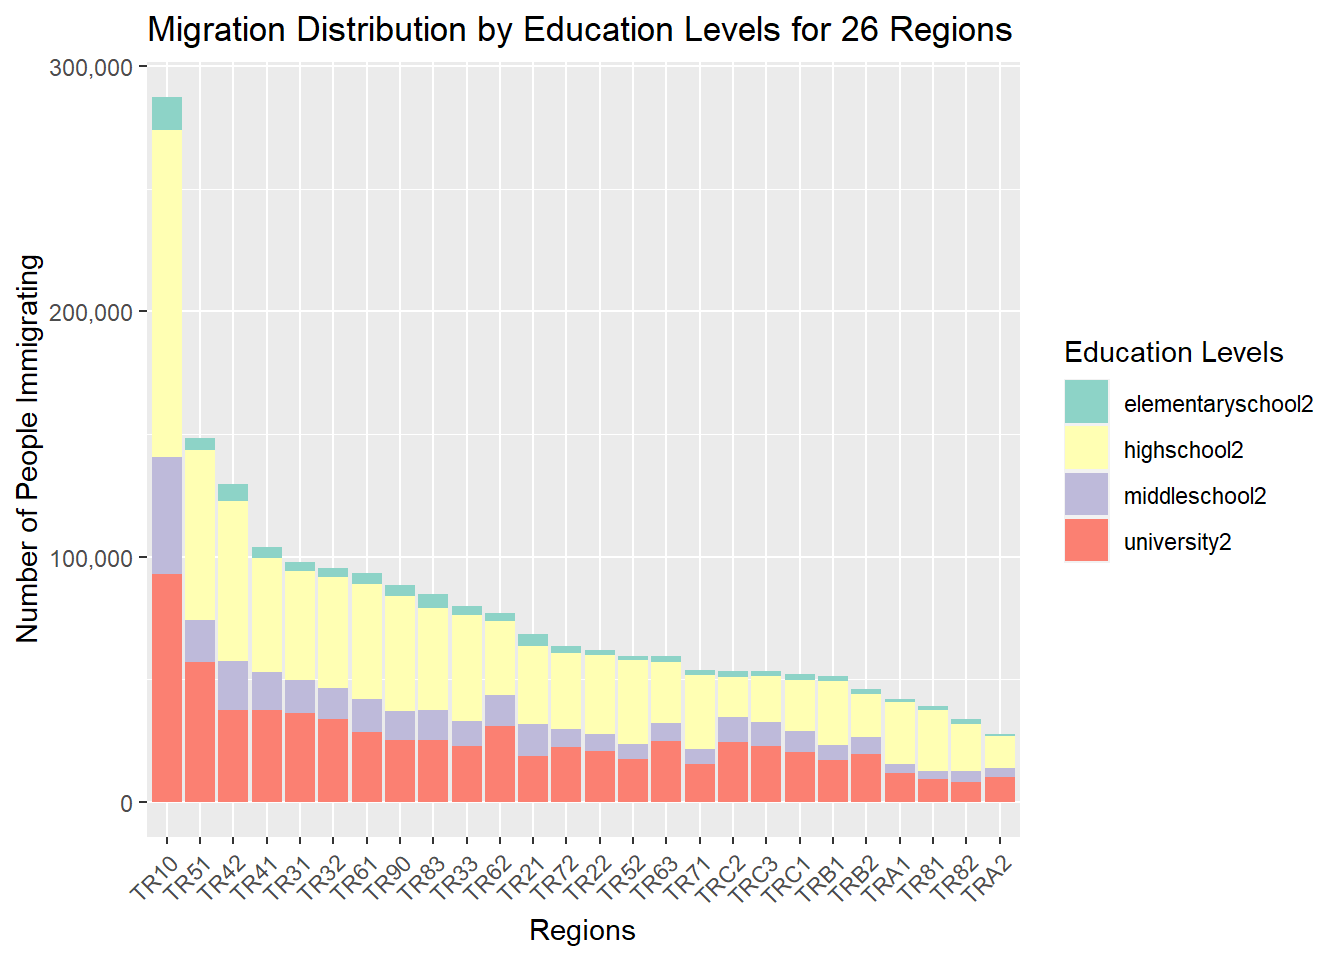
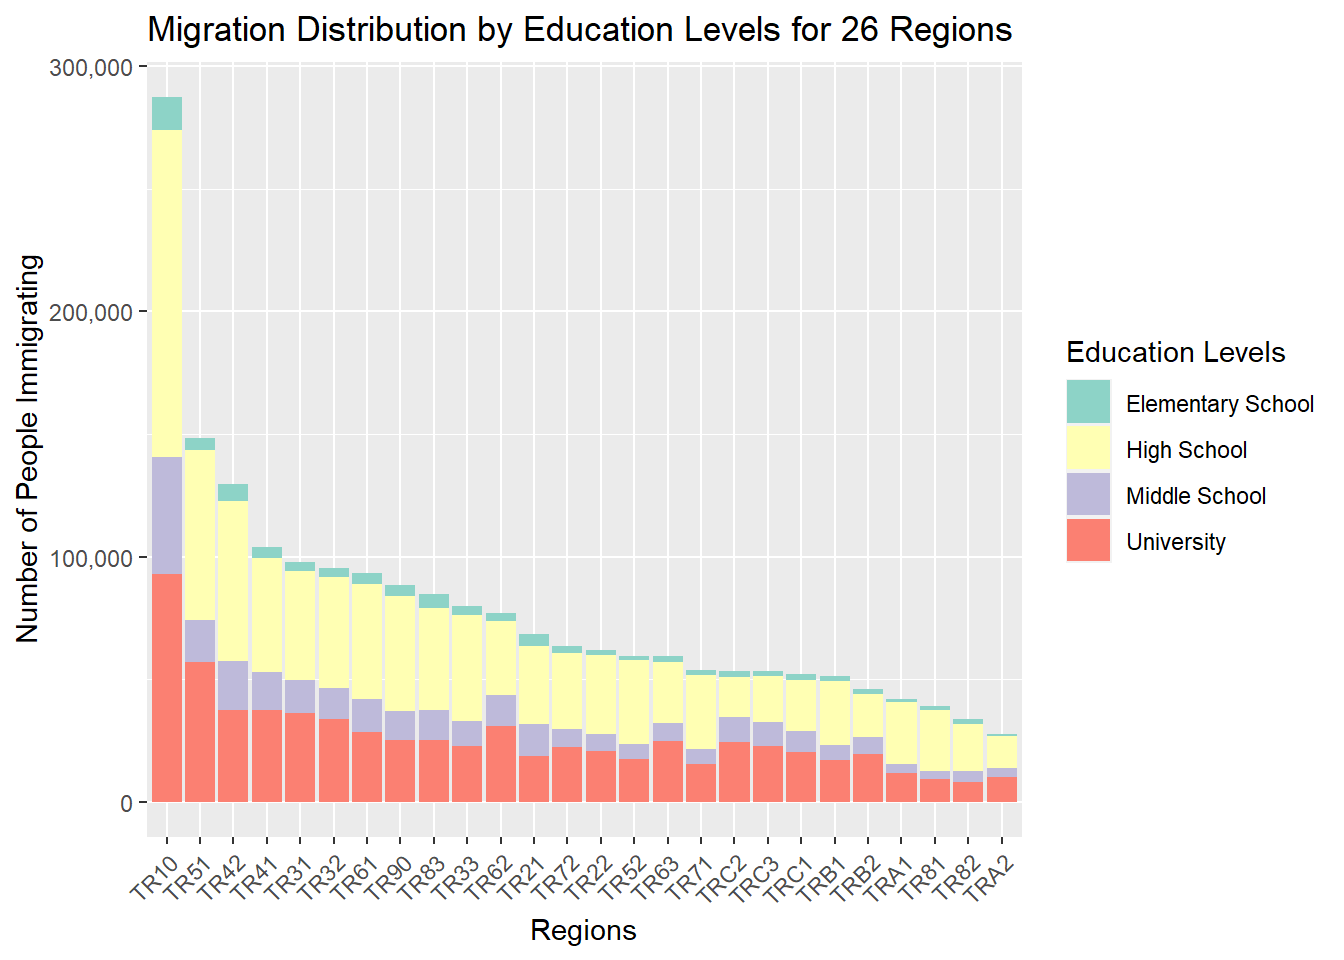
edu

diff --git a/docs/analysis.html b/docs/analysis.html
@@ -301,16 +301,26 @@ pre > code.sourceCode > span > a:first-child::before { text-decoration: underlin
 <p>From this graph, as the education level increases, the fertility rate decreases. you can see. You can also see that there are differences between geographical regions. For example, the Eastern Anatolia Region has the lowest education level and the fertility rate of this region is above average. This may indicate that the region is inadequate in terms of education and job opportunities. While it attracts attention as a region, the Marmara Region has the highest education level and the lowest fertility rate.It may prove to be attractive in terms of education and job opportunities. It appears as a region.There appears to be a negative relationship between average education level and average fertility rate. That is, as the education level increases, the fertility rate decreases. This may indicate that educated women tend to have fewer children. The relationship between education level and fertility rate varies by region. For example, the Central Anatolia Region stands out as the region with both the highest education level and the highest fertility rate. This may indicate that there is no relationship between education level and fertility rate in this region or that other factors are more influential.</p>
 <div class="cell">
 <div class="sourceCode cell-code" id="cb7"><pre class="sourceCode r code-with-copy"><code class="sourceCode r"><span id="cb7-1"><a href="#cb7-1" aria-hidden="true" tabindex="-1"></a><span class="fu">library</span>(tidyverse)</span>
-<span id="cb7-2"><a href="#cb7-2" aria-hidden="true" tabindex="-1"></a>merged_data <span class="ot">&lt;-</span> population <span class="sc">%&gt;%</span></span>
-<span id="cb7-3"><a href="#cb7-3" aria-hidden="true" tabindex="-1"></a>  <span class="fu">inner_join</span>(migration, <span class="at">by =</span> <span class="st">"city"</span>) <span class="sc">%&gt;%</span></span>
-<span id="cb7-4"><a href="#cb7-4" aria-hidden="true" tabindex="-1"></a>  <span class="fu">select</span>(city, region2id, university2, highschool2, middleschool2, elementaryschool2)</span>
-<span id="cb7-5"><a href="#cb7-5" aria-hidden="true" tabindex="-1"></a></span>
-<span id="cb7-6"><a href="#cb7-6" aria-hidden="true" tabindex="-1"></a>merged_data_tidy <span class="ot">&lt;-</span> merged_data <span class="sc">%&gt;%</span></span>
-<span id="cb7-7"><a href="#cb7-7" aria-hidden="true" tabindex="-1"></a>  <span class="fu">pivot_longer</span>(<span class="at">cols =</span> <span class="fu">c</span>(university2, highschool2, middleschool2, elementaryschool2),</span>
-<span id="cb7-8"><a href="#cb7-8" aria-hidden="true" tabindex="-1"></a>               <span class="at">names_to =</span> <span class="st">"education_level"</span>, <span class="at">values_to =</span> <span class="st">"migration_count"</span>) <span class="sc">%&gt;%</span></span>
-<span id="cb7-9"><a href="#cb7-9" aria-hidden="true" tabindex="-1"></a>  <span class="fu">group_by</span>(region2id, education_level) <span class="sc">%&gt;%</span></span>
-<span id="cb7-10"><a href="#cb7-10" aria-hidden="true" tabindex="-1"></a>  <span class="fu">summarise</span>(<span class="at">total_migration =</span> <span class="fu">sum</span>(migration_count, <span class="at">na.rm =</span> <span class="cn">TRUE</span>)) <span class="sc">%&gt;%</span></span>
-<span id="cb7-11"><a href="#cb7-11" aria-hidden="true" tabindex="-1"></a>  <span class="fu">ungroup</span>()</span></code><button title="Copy to Clipboard" class="code-copy-button"><i class="bi"></i></button></pre></div>
+<span id="cb7-2"><a href="#cb7-2" aria-hidden="true" tabindex="-1"></a></span>
+<span id="cb7-3"><a href="#cb7-3" aria-hidden="true" tabindex="-1"></a>merged_data <span class="ot">&lt;-</span> population <span class="sc">%&gt;%</span></span>
+<span id="cb7-4"><a href="#cb7-4" aria-hidden="true" tabindex="-1"></a>  <span class="fu">inner_join</span>(migration, <span class="at">by =</span> <span class="st">"city"</span>) <span class="sc">%&gt;%</span></span>
+<span id="cb7-5"><a href="#cb7-5" aria-hidden="true" tabindex="-1"></a>  <span class="fu">select</span>(city, region2id, university2, highschool2, middleschool2, elementaryschool2)</span>
+<span id="cb7-6"><a href="#cb7-6" aria-hidden="true" tabindex="-1"></a></span>
+<span id="cb7-7"><a href="#cb7-7" aria-hidden="true" tabindex="-1"></a>merged_data_tidy <span class="ot">&lt;-</span> merged_data <span class="sc">%&gt;%</span></span>
+<span id="cb7-8"><a href="#cb7-8" aria-hidden="true" tabindex="-1"></a>  <span class="fu">pivot_longer</span>(<span class="at">cols =</span> <span class="fu">c</span>(university2, highschool2, middleschool2, elementaryschool2),</span>
+<span id="cb7-9"><a href="#cb7-9" aria-hidden="true" tabindex="-1"></a>               <span class="at">names_to =</span> <span class="st">"education_level"</span>, <span class="at">values_to =</span> <span class="st">"migration_count"</span>) <span class="sc">%&gt;%</span></span>
+<span id="cb7-10"><a href="#cb7-10" aria-hidden="true" tabindex="-1"></a>  <span class="fu">group_by</span>(region2id, education_level) <span class="sc">%&gt;%</span></span>
+<span id="cb7-11"><a href="#cb7-11" aria-hidden="true" tabindex="-1"></a>  <span class="fu">summarise</span>(<span class="at">total_migration =</span> <span class="fu">sum</span>(migration_count, <span class="at">na.rm =</span> <span class="cn">TRUE</span>)) <span class="sc">%&gt;%</span></span>
+<span id="cb7-12"><a href="#cb7-12" aria-hidden="true" tabindex="-1"></a>  <span class="fu">ungroup</span>() <span class="sc">%&gt;%</span></span>
+<span id="cb7-13"><a href="#cb7-13" aria-hidden="true" tabindex="-1"></a>  <span class="fu">mutate</span>(</span>
+<span id="cb7-14"><a href="#cb7-14" aria-hidden="true" tabindex="-1"></a>    <span class="at">education_level =</span> <span class="fu">case_when</span>(</span>
+<span id="cb7-15"><a href="#cb7-15" aria-hidden="true" tabindex="-1"></a>      education_level <span class="sc">==</span> <span class="st">"university2"</span> <span class="sc">~</span> <span class="st">"University"</span>,</span>
+<span id="cb7-16"><a href="#cb7-16" aria-hidden="true" tabindex="-1"></a>      education_level <span class="sc">==</span> <span class="st">"middleschool2"</span> <span class="sc">~</span> <span class="st">"Middle School"</span>,</span>
+<span id="cb7-17"><a href="#cb7-17" aria-hidden="true" tabindex="-1"></a>      education_level <span class="sc">==</span> <span class="st">"highschool2"</span> <span class="sc">~</span> <span class="st">"High School"</span>,</span>
+<span id="cb7-18"><a href="#cb7-18" aria-hidden="true" tabindex="-1"></a>      education_level <span class="sc">==</span> <span class="st">"elementaryschool2"</span> <span class="sc">~</span> <span class="st">"Elementary School"</span>,</span>
+<span id="cb7-19"><a href="#cb7-19" aria-hidden="true" tabindex="-1"></a>      <span class="cn">TRUE</span> <span class="sc">~</span> <span class="fu">as.character</span>(education_level)</span>
+<span id="cb7-20"><a href="#cb7-20" aria-hidden="true" tabindex="-1"></a>    )</span>
+<span id="cb7-21"><a href="#cb7-21" aria-hidden="true" tabindex="-1"></a>  )  <span class="co"># Mutate i??lemi burada kapanmal??</span></span></code><button title="Copy to Clipboard" class="code-copy-button"><i class="bi"></i></button></pre></div>
 <div class="cell-output cell-output-stderr">
 <pre><code>`summarise()` has grouped output by 'region2id'. You can override using the
 `.groups` argument.</code></pre>
@@ -339,28 +349,37 @@ pre > code.sourceCode > span > a:first-child::before { text-decoration: underlin
 <p>It is seen that immigrants with high education levels mostly migrate to regions numbered TR10, TR51 and TR42. These regions cover the northwestern, western and southwestern regions of Turkey. It may indicate that these regions are more attractive in terms of education and job opportunities. It is seen that immigrants with low education level mostly migrate to TR81, TR82 and TRA2 regions. These regions cover the northeastern, eastern and southeastern regions of Turkey. It may indicate that these regions are poorer in terms of education and job opportunities. It may indicate that other Regions are average in terms of education and job opportunities.</p>
 <div class="cell">
 <div class="sourceCode cell-code" id="cb10"><pre class="sourceCode r code-with-copy"><code class="sourceCode r"><span id="cb10-1"><a href="#cb10-1" aria-hidden="true" tabindex="-1"></a><span class="fu">library</span>(tidyverse)</span>
-<span id="cb10-2"><a href="#cb10-2" aria-hidden="true" tabindex="-1"></a>merged_data <span class="ot">&lt;-</span> <span class="fu">inner_join</span>(population, migration, <span class="at">by =</span> <span class="st">"city"</span>) <span class="sc">%&gt;%</span></span>
-<span id="cb10-3"><a href="#cb10-3" aria-hidden="true" tabindex="-1"></a>  <span class="fu">select</span>(city, region2id, university2, doctorate, highschool2, elementaryschool2, finjob)</span>
-<span id="cb10-4"><a href="#cb10-4" aria-hidden="true" tabindex="-1"></a>education_migration <span class="ot">&lt;-</span> merged_data <span class="sc">%&gt;%</span></span>
-<span id="cb10-5"><a href="#cb10-5" aria-hidden="true" tabindex="-1"></a>  <span class="fu">pivot_longer</span>(<span class="at">cols =</span> <span class="fu">c</span>(university2, doctorate, highschool2, elementaryschool2),</span>
-<span id="cb10-6"><a href="#cb10-6" aria-hidden="true" tabindex="-1"></a>               <span class="at">names_to =</span> <span class="st">"education_level"</span>, <span class="at">values_to =</span> <span class="st">"migration_count"</span>) <span class="sc">%&gt;%</span></span>
-<span id="cb10-7"><a href="#cb10-7" aria-hidden="true" tabindex="-1"></a>  <span class="fu">mutate</span>(</span>
-<span id="cb10-8"><a href="#cb10-8" aria-hidden="true" tabindex="-1"></a>    <span class="at">education_level =</span> <span class="fu">case_when</span>(</span>
-<span id="cb10-9"><a href="#cb10-9" aria-hidden="true" tabindex="-1"></a>      education_level <span class="sc">==</span> <span class="st">"university2"</span> <span class="sc">~</span> <span class="st">"University"</span>,</span>
-<span id="cb10-10"><a href="#cb10-10" aria-hidden="true" tabindex="-1"></a>      education_level <span class="sc">==</span> <span class="st">"doctorate"</span> <span class="sc">~</span> <span class="st">"Doctorate"</span>,</span>
-<span id="cb10-11"><a href="#cb10-11" aria-hidden="true" tabindex="-1"></a>      education_level <span class="sc">==</span> <span class="st">"highschool2"</span> <span class="sc">~</span> <span class="st">"High School"</span>,</span>
-<span id="cb10-12"><a href="#cb10-12" aria-hidden="true" tabindex="-1"></a>      education_level <span class="sc">==</span> <span class="st">"elementaryschool2"</span> <span class="sc">~</span> <span class="st">"Elementary School"</span>,</span>
-<span id="cb10-13"><a href="#cb10-13" aria-hidden="true" tabindex="-1"></a>      <span class="cn">TRUE</span> <span class="sc">~</span> <span class="fu">as.character</span>(education_level)</span>
-<span id="cb10-14"><a href="#cb10-14" aria-hidden="true" tabindex="-1"></a>    )</span>
-<span id="cb10-15"><a href="#cb10-15" aria-hidden="true" tabindex="-1"></a>  )</span>
-<span id="cb10-16"><a href="#cb10-16" aria-hidden="true" tabindex="-1"></a></span>
-<span id="cb10-17"><a href="#cb10-17" aria-hidden="true" tabindex="-1"></a><span class="fu">ggplot</span>(education_migration, <span class="fu">aes</span>(<span class="at">x =</span> education_level, <span class="at">y =</span> migration_count, <span class="at">fill =</span> education_level)) <span class="sc">+</span></span>
-<span id="cb10-18"><a href="#cb10-18" aria-hidden="true" tabindex="-1"></a>  <span class="fu">geom_boxplot</span>() <span class="sc">+</span></span>
-<span id="cb10-19"><a href="#cb10-19" aria-hidden="true" tabindex="-1"></a>  <span class="fu">labs</span>(<span class="at">title =</span> <span class="st">"Migration by Education Level"</span>,</span>
-<span id="cb10-20"><a href="#cb10-20" aria-hidden="true" tabindex="-1"></a>       <span class="at">x =</span> <span class="st">"Education Level"</span>,</span>
-<span id="cb10-21"><a href="#cb10-21" aria-hidden="true" tabindex="-1"></a>       <span class="at">y =</span> <span class="st">"Migration Count"</span>,</span>
-<span id="cb10-22"><a href="#cb10-22" aria-hidden="true" tabindex="-1"></a>       <span class="at">fill =</span> <span class="st">"Education Level"</span>) <span class="sc">+</span></span>
-<span id="cb10-23"><a href="#cb10-23" aria-hidden="true" tabindex="-1"></a>  <span class="fu">theme_minimal</span>() <span class="sc">+</span> <span class="fu">scale_y_continuous</span>(<span class="at">labels =</span> scales<span class="sc">::</span>comma)</span></code><button title="Copy to Clipboard" class="code-copy-button"><i class="bi"></i></button></pre></div>
+<span id="cb10-2"><a href="#cb10-2" aria-hidden="true" tabindex="-1"></a></span>
+<span id="cb10-3"><a href="#cb10-3" aria-hidden="true" tabindex="-1"></a>merged_data <span class="ot">&lt;-</span> <span class="fu">inner_join</span>(population, migration, <span class="at">by =</span> <span class="st">"city"</span>) <span class="sc">%&gt;%</span></span>
+<span id="cb10-4"><a href="#cb10-4" aria-hidden="true" tabindex="-1"></a>  <span class="fu">select</span>(city, region2id, university2, doctorate, highschool2, elementaryschool2, middleschool2, finjob)</span>
+<span id="cb10-5"><a href="#cb10-5" aria-hidden="true" tabindex="-1"></a></span>
+<span id="cb10-6"><a href="#cb10-6" aria-hidden="true" tabindex="-1"></a>education_migration <span class="ot">&lt;-</span> merged_data <span class="sc">%&gt;%</span></span>
+<span id="cb10-7"><a href="#cb10-7" aria-hidden="true" tabindex="-1"></a>  <span class="fu">pivot_longer</span>(<span class="at">cols =</span> <span class="fu">c</span>(university2, doctorate, highschool2, elementaryschool2, middleschool2),</span>
+<span id="cb10-8"><a href="#cb10-8" aria-hidden="true" tabindex="-1"></a>               <span class="at">names_to =</span> <span class="st">"education_level"</span>, <span class="at">values_to =</span> <span class="st">"migration_count"</span>) <span class="sc">%&gt;%</span></span>
+<span id="cb10-9"><a href="#cb10-9" aria-hidden="true" tabindex="-1"></a>  <span class="fu">mutate</span>(</span>
+<span id="cb10-10"><a href="#cb10-10" aria-hidden="true" tabindex="-1"></a>    <span class="at">education_level =</span> <span class="fu">case_when</span>(</span>
+<span id="cb10-11"><a href="#cb10-11" aria-hidden="true" tabindex="-1"></a>      education_level <span class="sc">==</span> <span class="st">"university2"</span> <span class="sc">~</span> <span class="st">"University"</span>,</span>
+<span id="cb10-12"><a href="#cb10-12" aria-hidden="true" tabindex="-1"></a>      education_level <span class="sc">==</span> <span class="st">"doctorate"</span> <span class="sc">~</span> <span class="st">"Doctorate"</span>,</span>
+<span id="cb10-13"><a href="#cb10-13" aria-hidden="true" tabindex="-1"></a>      education_level <span class="sc">==</span> <span class="st">"highschool2"</span> <span class="sc">~</span> <span class="st">"High School"</span>,</span>
+<span id="cb10-14"><a href="#cb10-14" aria-hidden="true" tabindex="-1"></a>      education_level <span class="sc">==</span> <span class="st">"elementaryschool2"</span> <span class="sc">~</span> <span class="st">"Elementary School"</span>,</span>
+<span id="cb10-15"><a href="#cb10-15" aria-hidden="true" tabindex="-1"></a>      education_level <span class="sc">==</span> <span class="st">"middleschool2"</span> <span class="sc">~</span> <span class="st">"Middle School"</span>,</span>
+<span id="cb10-16"><a href="#cb10-16" aria-hidden="true" tabindex="-1"></a>      <span class="cn">TRUE</span> <span class="sc">~</span> <span class="fu">as.character</span>(education_level)</span>
+<span id="cb10-17"><a href="#cb10-17" aria-hidden="true" tabindex="-1"></a>    )</span>
+<span id="cb10-18"><a href="#cb10-18" aria-hidden="true" tabindex="-1"></a>  )</span>
+<span id="cb10-19"><a href="#cb10-19" aria-hidden="true" tabindex="-1"></a></span>
+<span id="cb10-20"><a href="#cb10-20" aria-hidden="true" tabindex="-1"></a><span class="co"># Education_level s??tununu fakt??r olarak d??zenleyerek s??ralama yapma</span></span>
+<span id="cb10-21"><a href="#cb10-21" aria-hidden="true" tabindex="-1"></a>education_migration<span class="sc">$</span>education_level <span class="ot">&lt;-</span> <span class="fu">factor</span>(education_migration<span class="sc">$</span>education_level, </span>
+<span id="cb10-22"><a href="#cb10-22" aria-hidden="true" tabindex="-1"></a>                                             <span class="at">levels =</span> <span class="fu">c</span>(<span class="st">"Elementary School"</span>, <span class="st">"Middle School"</span>, <span class="st">"High School"</span>, <span class="st">"University"</span>, <span class="st">"Doctorate"</span>))</span>
+<span id="cb10-23"><a href="#cb10-23" aria-hidden="true" tabindex="-1"></a></span>
+<span id="cb10-24"><a href="#cb10-24" aria-hidden="true" tabindex="-1"></a><span class="co"># Box plotlar?? s??ral?? ??ekilde ??izme</span></span>
+<span id="cb10-25"><a href="#cb10-25" aria-hidden="true" tabindex="-1"></a><span class="fu">ggplot</span>(education_migration, <span class="fu">aes</span>(<span class="at">x =</span> education_level, <span class="at">y =</span> migration_count, <span class="at">fill =</span> education_level)) <span class="sc">+</span></span>
+<span id="cb10-26"><a href="#cb10-26" aria-hidden="true" tabindex="-1"></a>  <span class="fu">geom_boxplot</span>() <span class="sc">+</span></span>
+<span id="cb10-27"><a href="#cb10-27" aria-hidden="true" tabindex="-1"></a>  <span class="fu">labs</span>(<span class="at">title =</span> <span class="st">"Migration by Education Level"</span>,</span>
+<span id="cb10-28"><a href="#cb10-28" aria-hidden="true" tabindex="-1"></a>       <span class="at">x =</span> <span class="st">"Education Level"</span>,</span>
+<span id="cb10-29"><a href="#cb10-29" aria-hidden="true" tabindex="-1"></a>       <span class="at">y =</span> <span class="st">"Migration Count"</span>,</span>
+<span id="cb10-30"><a href="#cb10-30" aria-hidden="true" tabindex="-1"></a>       <span class="at">fill =</span> <span class="st">"Education Level"</span>) <span class="sc">+</span></span>
+<span id="cb10-31"><a href="#cb10-31" aria-hidden="true" tabindex="-1"></a>  <span class="fu">theme_minimal</span>() <span class="sc">+</span> </span>
+<span id="cb10-32"><a href="#cb10-32" aria-hidden="true" tabindex="-1"></a>  <span class="fu">scale_y_continuous</span>(<span class="at">labels =</span> scales<span class="sc">::</span>comma)</span></code><button title="Copy to Clipboard" class="code-copy-button"><i class="bi"></i></button></pre></div>
 <div class="cell-output-display">
 <p><img src="analysis_files/figure-html/unnamed-chunk-9-1.png" class="img-fluid" width="672"></p>
 </div>
